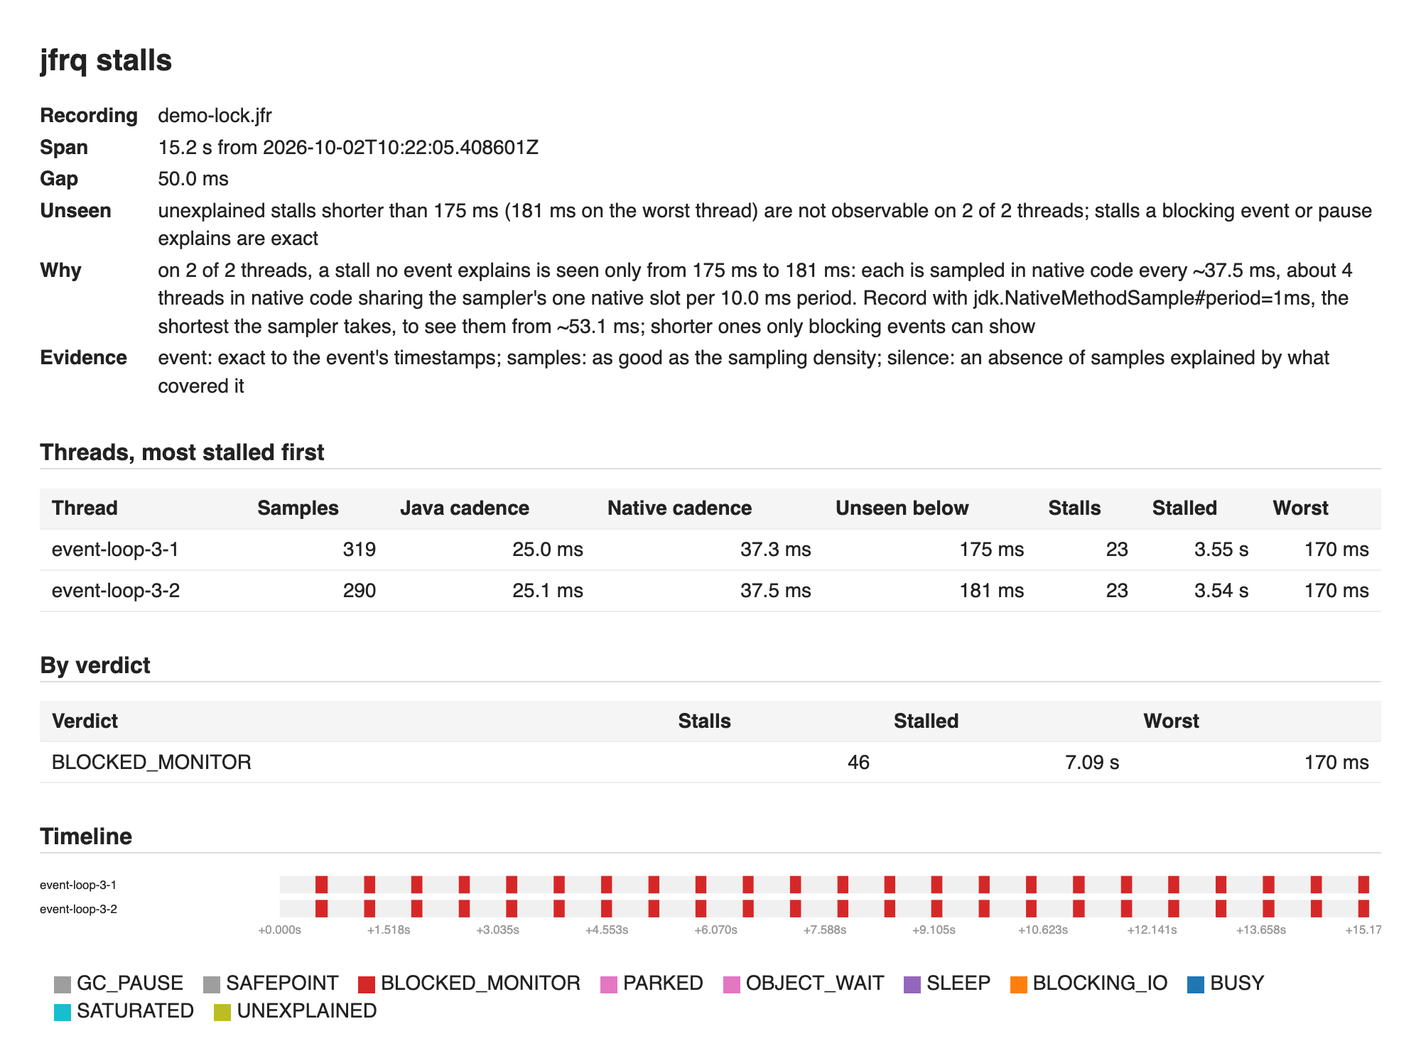
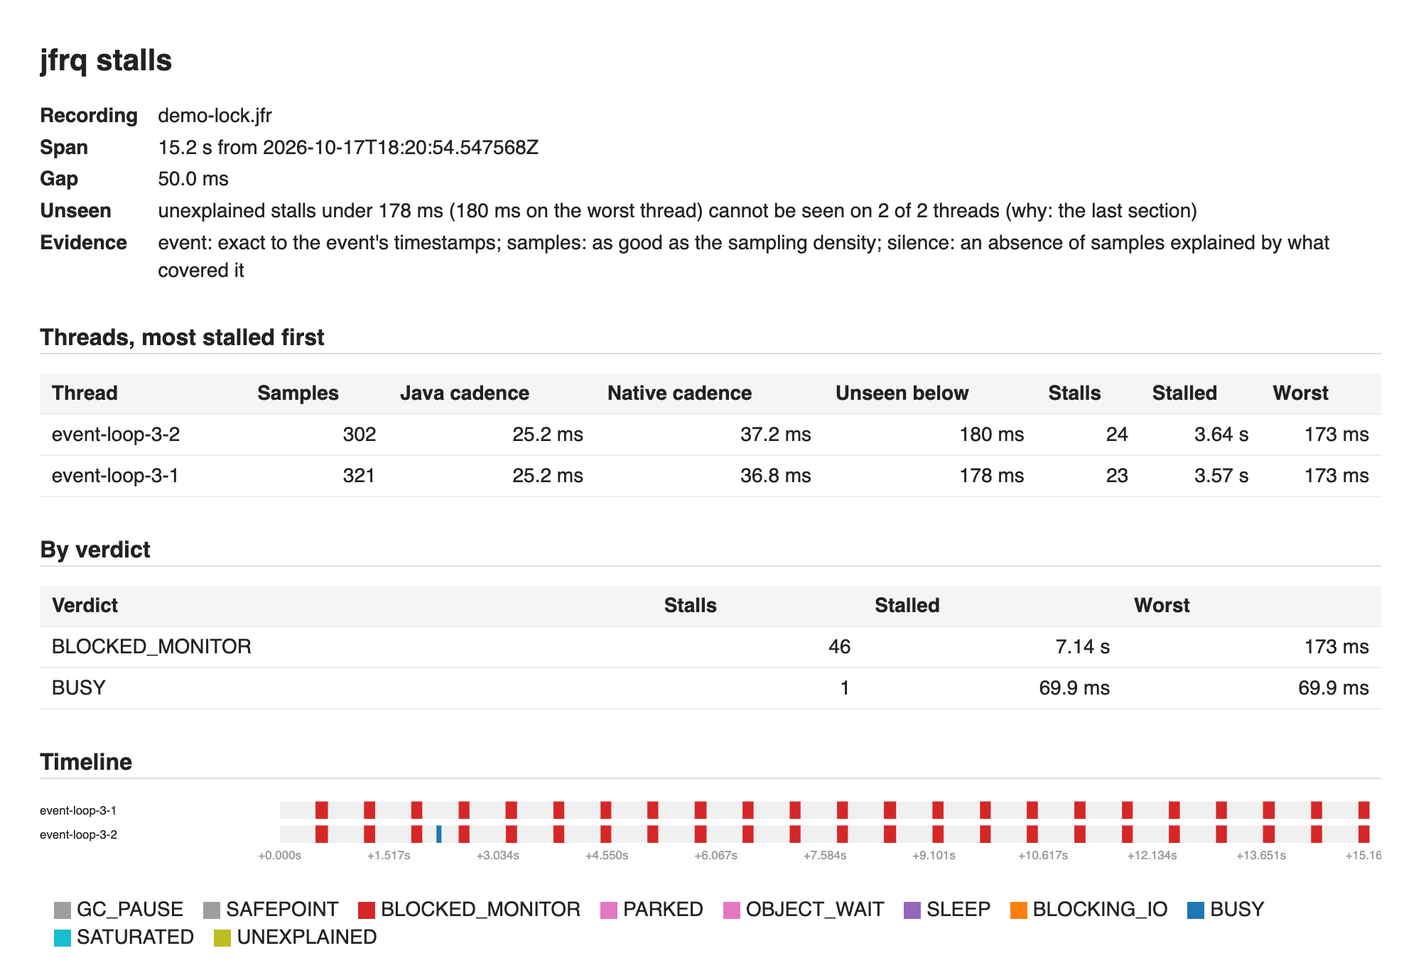
stalls: Unseen bound on one short line, its reasons in a closing UNSEEN section; README example and screenshot regenerated, URLs to jfrq (#11)

diff --git a/core/src/main/java/dev/jfrq/core/stalls/StallReport.java b/core/src/main/java/dev/jfrq/core/stalls/StallReport.java
@@ -32,6 +32,10 @@ public record StallReport(RecordingInfo info, long gapNanos, List<ThreadSummary>
             + "lists every thread seen in any event, the JVM's own included; stalls can judge only a thread the "
             + "sampler or a blocking event saw.";
 
+    /** What both renderers say the {@link #unseen()} sentences are limits on: the stalls nothing explains. */
+    public static final String UNSEEN_SCOPE = "Stalls a blocking event or pause explains are exact; these limits "
+            + "are on the rest.";
+
     /**
      * What limits a thread's view: nothing, one of the sampler's two slots, or the thread itself.
      * A stall a blocking event or a JVM pause explains is seen whatever this says; this is about
@@ -136,11 +140,11 @@ public record StallReport(RecordingInfo info, long gapNanos, List<ThreadSummary>
     }
 
     /**
-     * {@link #unseen()} in one line, before its reasons: how short an unexplained stall these
-     * threads cannot show, and on how many of them. {@code null} when every thread's view is
-     * clear. The {@link #unseen()} sentences explain it and name the setting that would help;
-     * this is the line a reader who stops early still needs, since "0 found" means nothing
-     * below it.
+     * {@link #unseen()} in one short line, before its reasons: how short an unexplained stall
+     * these threads cannot show, and on how many of them. {@code null} when every thread's view
+     * is clear. The {@link #unseen()} sentences explain it and name the setting that would help,
+     * at the end of the report; this is the line a reader who stops early still needs, since
+     * "0 found" means nothing below it.
      */
     public String unseenHeadline() {
         final long span = info.span().duration();
@@ -165,9 +169,8 @@ public record StallReport(RecordingInfo info, long gapNanos, List<ThreadSummary>
             return null;
         }
         final String of = limited + " of " + threads.size() + " threads";
-        final String exact = "; stalls a blocking event or pause explains are exact";
         if (hi == 0) {
-            return "unexplained stalls are not observable at all on " + of + exact;
+            return "no unexplained stall can be seen on " + of;
         }
         // The best thread's bound holds on every one of them; the worst's is how far it reaches,
         // unless the spread is so wide that one number says nothing (84.5 ms against 24m18s over
@@ -177,9 +180,8 @@ public record StallReport(RecordingInfo info, long gapNanos, List<ThreadSummary>
         final String reach = best.equals(worst) ? ""
                 : hi <= WIDE_SPREAD * lo ? " (" + worst + " on the worst thread)"
                 : " (far longer on some)";
-        return "unexplained stalls shorter than " + best + reach
-                + " are not observable on " + of + (never == 0 ? "" : ", and none at all on " + never + " of them")
-                + exact;
+        return "unexplained stalls under " + best + reach
+                + " cannot be seen on " + of + (never == 0 ? "" : ", and none at all on " + never + " of them");
     }
 
     private List<ThreadSummary> withSight(final Sight sight) {

diff --git a/core/src/test/java/dev/jfrq/core/stalls/StallReportTest.java b/core/src/test/java/dev/jfrq/core/stalls/StallReportTest.java
@@ -149,24 +149,20 @@ class StallReportTest {
     void theHeadlineStatesTheBoundInOneLine() {
         // Every limited thread, whatever the reason, in one bound: the best thread's holds on all
         // of them, and the worst's is how far it reaches.
-        assertEquals("unexplained stalls shorter than 510 ms (1.75 s on the worst thread) are not observable on 2 of "
-                + "3 threads; stalls a blocking event or pause explains are exact",
+        assertEquals("unexplained stalls under 510 ms (1.75 s on the worst thread) cannot be seen on 2 of 3 threads",
                 report(20, summary(1, Sight.NATIVE_SAMPLER, 1_750, 571, 571), summary(2, Sight.OWN_ABSENCE, 510, 51, 0),
                         summary(3, Sight.CLEAR, 0, 0, 0)).unseenHeadline());
-        assertEquals("unexplained stalls shorter than 750 ms are not observable on 1 of 1 threads; stalls a blocking "
-                + "event or pause explains are exact", report(20, summary(1, Sight.NATIVE_SAMPLER, 750, 250, 250))
-                .unseenHeadline());
+        assertEquals("unexplained stalls under 750 ms cannot be seen on 1 of 1 threads",
+                report(20, summary(1, Sight.NATIVE_SAMPLER, 750, 250, 250)).unseenHeadline());
         // A bound past the recording is no bound: those threads are counted as not seen at all.
-        assertEquals("unexplained stalls shorter than 750 ms are not observable on 2 of 2 threads, and none at all on "
-                + "1 of them; stalls a blocking event or pause explains are exact",
+        assertEquals("unexplained stalls under 750 ms cannot be seen on 2 of 2 threads, and none at all on 1 of them",
                 report(20, summary(1, Sight.NATIVE_SAMPLER, 750, 250, 250),
                         summary(2, Sight.NATIVE_SAMPLER, 12_000, 4_000, 4_000)).unseenHeadline());
-        assertEquals("unexplained stalls are not observable at all on 1 of 1 threads; stalls a blocking event or pause "
-                + "explains are exact", report(20, summary(1, Sight.OWN_ABSENCE, 0, 0, 0)).unseenHeadline());
+        assertEquals("no unexplained stall can be seen on 1 of 1 threads",
+                report(20, summary(1, Sight.OWN_ABSENCE, 0, 0, 0)).unseenHeadline());
         assertNull(report(20, summary(1, Sight.CLEAR, 0, 0, 0)).unseenHeadline());
         // Ten times apart and more, the worst says nothing a reader can use.
-        assertEquals("unexplained stalls shorter than 85.0 ms (far longer on some) are not "
-                + "observable on 2 of 2 threads; stalls a blocking event or pause explains are exact",
+        assertEquals("unexplained stalls under 85.0 ms (far longer on some) cannot be seen on 2 of 2 threads",
                 report(20, summary(1, Sight.OWN_ABSENCE, 85, 30, 0), summary(2, Sight.OWN_ABSENCE, 9_000, 3_000, 0))
                         .unseenHeadline());
     }

diff --git a/cli/src/main/java/dev/jfrq/cli/Text.java b/cli/src/main/java/dev/jfrq/cli/Text.java
@@ -679,14 +679,13 @@ final class Text {
         sb.append(String.format(Locale.ROOT, "%-10s %d matched\n", "Threads", r.threads().size()));
         // The verdict on the question comes before the stalls, and before the warnings: "0 found"
         // on threads the recording cannot see into is not an answer.
-        // The bound first, on one line; the reasons and the setting that helps below it.
+        // The bound first, on one short line; the reasons and the setting that helps close the
+        // report, so that up to three long sentences do not stand between the reader and the stalls.
         final List<String> unseen = r.unseen();
         final String headline = r.unseenHeadline();
         if (headline != null) {
-            sb.append(String.format(Locale.ROOT, "%-10s %s\n", "Unseen", headline));
-        }
-        for (final String u : unseen) {
-            sb.append(String.format(Locale.ROOT, "%-10s %s\n", "", u));
+            sb.append(String.format(Locale.ROOT, "%-10s %s%s\n", "Unseen", headline,
+                    unseen.isEmpty() ? "" : " (UNSEEN below)"));
         }
         for (final String w : r.warnings()) {
             sb.append("WARNING    ").append(w).append('\n');
@@ -725,6 +724,42 @@ final class Text {
             sb.append(rows(r, shownGaps));
         }
         sb.append(pauses(r, top));
+        if (!unseen.isEmpty()) {
+            sb.append("\nUNSEEN (why, and the setting that helps)\n");
+            sb.append(wrap(StallReport.UNSEEN_SCOPE, "  ", "  "));
+            for (final String u : unseen) {
+                sb.append(wrap(u, "  - ", "    "));
+            }
+        }
+        return sb.toString();
+    }
+
+    /** Columns a sentence of prose is wrapped at. */
+    static final int PROSE_WIDTH = 100;
+
+    /**
+     * {@code text} broken at spaces into lines of at most {@link #PROSE_WIDTH} columns, the
+     * first starting with {@code first} and the rest with {@code rest}; a word longer than a
+     * line stands on its own.
+     */
+    static String wrap(final String text, final String first, final String rest) {
+        final StringBuilder sb = new StringBuilder();
+        String indent = first;
+        int from = 0;
+        while (from < text.length()) {
+            final int room = PROSE_WIDTH - indent.length();
+            int to = text.length();
+            if (to - from > room) {
+                to = text.lastIndexOf(' ', from + room);
+                if (to <= from) {
+                    to = text.indexOf(' ', from + room);
+                    to = to < 0 ? text.length() : to;
+                }
+            }
+            sb.append(indent).append(text, from, to).append('\n');
+            from = to + 1;
+            indent = rest;
+        }
         return sb.toString();
     }
 

diff --git a/cli/src/test/java/dev/jfrq/cli/TextTest.java b/cli/src/test/java/dev/jfrq/cli/TextTest.java
@@ -462,14 +462,33 @@ class TextTest {
                 List.of(), List.of(), List.of("a warning"));
         final String text = Text.stalls(r, 15);
         // Before the warnings, and before the empty list it qualifies.
-        // The bound in one line first, the reasons under it.
-        assertTrue(text.contains("Unseen     unexplained stalls shorter than 750 ms are not observable on 1 of 1 threads; "
-                + "stalls a blocking event or pause explains are exact\n"
-                + "           on 1 of 1 threads, a stall no event explains is seen only from 750 ms"), text);
-        assertTrue(text.indexOf("Unseen") < text.indexOf("WARNING    a warning"), text);
+        // The bound in one short line first; the reasons close the report.
+        assertTrue(text.contains("Unseen     unexplained stalls under 750 ms cannot be seen on 1 of 1 threads "
+                + "(UNSEEN below)\nWARNING    a warning\n"), text);
         assertTrue(text.contains("  none this recording can show: see Unseen above"), text);
+        final String why = section(text, "UNSEEN (");
+        assertTrue(text.indexOf("UNSEEN (") > text.indexOf("STALLS >="), text);
+        assertTrue(why.contains("  " + StallReport.UNSEEN_SCOPE + "\n"), why);
+        assertTrue(why.contains("  - on 1 of 1 threads, a stall no event explains is seen only from 750 ms"), why);
+        why.lines().forEach(line -> assertTrue(line.length() <= Text.PROSE_WIDTH, line));
         // A thread with no stall is counted, not listed: the Unseen line speaks for it.
         assertTrue(section(text, "PER THREAD").contains("1 thread with no stall"), text);
+    }
+
+    @Test
+    void wrapBreaksProseAtSpacesWithinTheWidth() {
+        final String words = "word ".repeat(40).strip();
+        final String wrapped = Text.wrap(words, "  - ", "    ");
+        assertTrue(wrapped.startsWith("  - word word"), wrapped);
+        wrapped.lines().forEach(line -> {
+            assertTrue(line.length() <= Text.PROSE_WIDTH, line);
+            assertFalse(line.endsWith(" "), line);
+        });
+        assertEquals(words, String.join(" ", wrapped.lines().map(String::strip).map(l -> l.replaceFirst("^- ", "")).toList()));
+        // A word longer than a line stands on its own, unbroken.
+        final String longWord = "x".repeat(Text.PROSE_WIDTH + 5);
+        assertEquals("  a\n  " + longWord + "\n  b\n", Text.wrap("a " + longWord + " b", "  ", "  "));
+        assertEquals("  short\n", Text.wrap("short", "  ", "  "));
     }
 
     @Test

diff --git a/core/src/test/java/dev/jfrq/core/report/HtmlTest.java b/core/src/test/java/dev/jfrq/core/report/HtmlTest.java
@@ -68,6 +68,21 @@ class HtmlTest {
     }
 
     @Test
+    void theUnseenBoundLeadsThePageAndItsReasonsCloseIt() {
+        final StallReport r = new StallReport(info(), 50 * MS,
+                List.of(new StallReport.ThreadSummary(LOOP, 460, 0, 250 * MS, 0, 0, 0, 750 * MS,
+                        StallReport.Sight.NATIVE_SAMPLER, 250 * MS)),
+                List.of(), List.of(), List.of("a warning"));
+        final String html = Html.stalls(r, 10);
+        final int bound = html.indexOf("unexplained stalls under 750 ms cannot be seen on 1 of 1 threads (why: the last section)");
+        final int reasons = html.indexOf("<h2>Unseen: why, and the setting that helps</h2>");
+        assertTrue(bound >= 0 && bound < html.indexOf("a warning"), html);
+        assertTrue(reasons > html.indexOf("<h2>Stalls, longest first"), html);
+        assertTrue(html.indexOf(StallReport.UNSEEN_SCOPE) > reasons, html);
+        assertTrue(html.indexOf("on 1 of 1 threads, a stall no event explains is seen only from 750 ms") > reasons, html);
+    }
+
+    @Test
     void theThreadTableTakesTheSameTopAsTheText() {
         final List<StallReport.ThreadSummary> threads = new ArrayList<>();
         for (int i = 1; i <= 4; i++) {

diff --git a/core/src/main/java/dev/jfrq/core/report/Html.java b/core/src/main/java/dev/jfrq/core/report/Html.java
@@ -73,10 +73,7 @@ public final class Html {
         p.kv("Gap", Durations.format(report.gapNanos()));
         final String headline = report.unseenHeadline();
         if (headline != null) {
-            p.kv("Unseen", headline);
-        }
-        for (final String u : report.unseen()) {
-            p.kv("Why", u);
+            p.kv("Unseen", report.unseen().isEmpty() ? headline : headline + " (why: the last section)");
         }
         p.warnings(report.warnings());
         p.kv("Evidence", "event: exact to the event's timestamps; samples: as good as the sampling density; "
@@ -136,6 +133,14 @@ public final class Html {
             stallTable(p, report, listedGaps);
         }
         pauses(p, report);
+        // Last, as in the text report: the headline above is the bound, these are its reasons.
+        if (!report.unseen().isEmpty()) {
+            p.h2("Unseen: why, and the setting that helps");
+            p.para(StallReport.UNSEEN_SCOPE);
+            for (final String u : report.unseen()) {
+                p.kv("Why", u);
+            }
+        }
         return p.finish();
     }
 

diff --git a/docs/TUTORIAL.md b/docs/TUTORIAL.md
@@ -129,8 +129,7 @@ Sampling   ExecutionSample 10.0 ms, NativeMethodSample 10.0 ms
 Thresholds JavaMonitorEnter 1.00 ms, ThreadPark 1.00 ms, ThreadSleep 1.00 ms, SocketRead 1.00 ms, FileRead 1.00 ms
 Gap        50.0 ms
 Threads    2 matched
-Unseen     unexplained stalls shorter than 169 ms (177 ms on the worst thread) are not observable on 2 of 2 threads; stalls a blocking event or pause explains are exact
-           on 2 of 2 threads, a stall no event explains is seen only from 169 ms to 177 ms: each is sampled in native code every ~36.6 ms, about 4 threads in native code sharing the sampler's one native slot per 10.0 ms period. Record with jdk.NativeMethodSample#period=1ms, the shortest the sampler takes, to see them from ~51.5 ms; shorter ones only blocking events can show
+Unseen     unexplained stalls under 169 ms (177 ms on the worst thread) cannot be seen on 2 of 2 threads (UNSEEN below)
 
 BY VERDICT
   Verdict          Stalls  Stalled   Worst
@@ -152,6 +151,13 @@ STALLS >= 50.0 ms: 46 found, showing 2, longest first
         ... 20 more
    2  event-loop-3-2         +0.498s 15:26:28.993Z    178 ms  BLOCKED_MONITOR blocked on monitor dev.jfrq.demo.SessionRegistry@764b6e2f40 held by housekeeper
         same stack as #1
+
+UNSEEN (why, and the setting that helps)
+  Stalls a blocking event or pause explains are exact; these limits are on the rest.
+  - on 2 of 2 threads, a stall no event explains is seen only from 169 ms to 177 ms: each is sampled
+    in native code every ~36.6 ms, about 4 threads in native code sharing the sampler's one native
+    slot per 10.0 ms period. Record with jdk.NativeMethodSample#period=1ms, the shortest the sampler
+    takes, to see them from ~51.5 ms; shorter ones only blocking events can show
 ```
 
 Three things to read off this:
@@ -171,7 +177,8 @@ Three things to read off this:
    the client threads also in native socket reads, each loop is sampled about every 37 ms,
    and routinely unseen for longer, so a stall no event explains would have to last
    169–177 ms to be seen at all; on a busier machine far longer. The line says so before
-   any stall, and what would help: a 1 ms native period would bring it to about 52 ms.
+   any stall; the `UNSEEN` section that closes the report says what would help: a 1 ms
+   native period would bring it to about 52 ms.
    That does not weaken this result: every `BLOCKED_MONITOR` above comes from a
    `jdk.JavaMonitorEnter` event, which is exact whatever the sampling.
 
@@ -502,12 +509,11 @@ a long read dropped by the throttle is not in the file, and the silence it cause
 unexplained. Record with `throttle=off` on those events, as the line in [RECORDING.md](RECORDING.md) does.
 
 The `Unseen` line, right under `Threads`, qualifies the question before any answer to
-it: how short a stall that no event explains can be and still go unseen, and on
-how many of the watched threads. The lines under it say why. When the sampler's pace is
-the limit, it gives the
-`NativeMethodSample` or `ExecutionSample` period that would help and how far it would
-get; when the thread's own absences are (parked, blocked, idle), it says no period helps
-much and blocking events are what will show the stalls. If what it says is longer than
-the stalls you are hunting, record again with what it names, and lower the blocking
-thresholds so the explanation comes from events. `PER THREAD` prints the same number per
-thread as `Unseen below`.
+it: how short a stall that no event explains can be and still go unseen, and on how many
+of the watched threads. The `UNSEEN` section that closes the report says why. When the
+sampler's pace is the limit, it gives the `NativeMethodSample` or `ExecutionSample`
+period that would help and how far it would get; when the thread's own absences are
+(parked, blocked, idle), it says no period helps much and blocking events are what will
+show the stalls. If what it says is longer than the stalls you are hunting, record again
+with what it names, and lower the blocking thresholds so the explanation comes from
+events. `PER THREAD` prints the same number per thread as `Unseen below`.

diff --git a/README.md b/README.md
@@ -2,30 +2,29 @@
 
 **Ask a Java Flight Recorder recording one question. Get a verdict, with its evidence.**
 
-[![build](https://github.com/marregui/jfr/actions/workflows/build.yml/badge.svg)](https://github.com/marregui/jfr/actions/workflows/build.yml)
+[![build](https://github.com/marregui/jfrq/actions/workflows/build.yml/badge.svg)](https://github.com/marregui/jfrq/actions/workflows/build.yml)
 [![license](https://img.shields.io/badge/license-Apache%202.0-blue)](LICENSE)
 [![JDK](https://img.shields.io/badge/JDK-25-orange)](docs/USAGE.md#1-requirements)
 
 ```
 $ jfrq locks demo-lock.jfr --top 3
-Recording  demo-lock.jfr  15.2 s  starting 2026-10-02T10:22:05.408601Z
+Recording  demo-lock.jfr  15.2 s  starting 2026-10-17T18:20:54.547568Z
 Thresholds JavaMonitorEnter 1.00 ms, ThreadPark 1.00 ms
-Blocked    7.14 s across 51 waits
+Blocked    7.21 s across 52 waits
 
 LOCKS BY TOTAL WAIT
   Lock                                      Kind       Total  Waits      Max  Waiters                         Held by
-  dev.jfrq.demo.SessionRegistry@7818113800  monitor   7.09 s     46   170 ms  event-loop-3-2, event-loop-3-1  housekeeper
-  dev.jfrq.demo.Persistence@7818178000      monitor  46.7 ms      4  17.4 ms  housekeeper                     persistence-flusher
-  int[]@7818111500                          monitor  1.05 ms      1  1.05 ms  event-loop-3-1                  event-loop-3-2
+  dev.jfrq.demo.SessionRegistry@797a1fb480  monitor   7.14 s     46   173 ms  event-loop-3-1, event-loop-3-2  housekeeper
+  dev.jfrq.demo.Persistence@797a270000      monitor  72.9 ms      6  20.7 ms  housekeeper                     persistence-flusher
 
 WHERE THEY WAITED (the longest wait for each lock above)
-  dev.jfrq.demo.SessionRegistry@7818113800  170 ms
+  dev.jfrq.demo.SessionRegistry@797a1fb480  173 ms
         at dev.jfrq.demo.SessionRegistry.touch(SessionRegistry.java:29)
         at dev.jfrq.demo.RequestHandler.channelRead0(RequestHandler.java:49)
   ...
 ```
 
-In a 15.2 s recording, the two event loops spent 7.09 s between them blocked on one
+In a 15.2 s recording, the two event loops spent 7.14 s between them blocked on one
 monitor, held by the `housekeeper` thread, which was itself waiting on
 `persistence-flusher`. `--html` writes the same answer as a self-contained page; this is
 `stalls` on the same file:
@@ -64,7 +63,7 @@ JDK Mission Control shows the data; `jfr view` prints aggregate tables. Neither 
 Build (JDK 25):
 
 ```
-git clone https://github.com/marregui/jfr.git && cd jfr
+git clone https://github.com/marregui/jfrq.git && cd jfrq
 ./gradlew installDist
 export PATH="$PWD/cli/build/install/jfrq/bin:$PWD/live/build/install/jfrq-live/bin:$PWD/netty-demo/build/install/netty-demo/bin:$PATH"
 ```

diff --git a/docs/design/stalls.md b/docs/design/stalls.md
@@ -195,9 +195,10 @@ depend on it.
 **The verdict comes first.** On a live node, `stalls` on 24 event loops printed `0 found`,
 above three per-thread warnings, "21 more", and a table of zeros; the answer to "did the
 loops stall" was "this recording cannot see a loop stall shorter than 1.75 s unless an
-event explains it", and the report did not say so first. So an `Unseen` line leads the report,
-before the warnings and the stalls, one per kind of limit, and an empty stall list points
-at it. The kind decides the remedy:
+event explains it", and the report did not say so first. So a one-line `Unseen` bound leads the report,
+before the warnings and the stalls, and an empty stall list points at it. Its reasons, one
+per kind of limit, close the report in an `UNSEEN` section (the last section of the HTML
+page), so that they do not stand between the reader and the stalls. The kind decides the remedy:
 
 - *The sampler's pace.* A thread where one slot can see it for at least half its life,
   whose routine absence is mostly that slot's round trip (at most twice it), is limited by

diff --git a/docs/design/README.md b/docs/design/README.md
@@ -380,7 +380,7 @@ parse within run-to-run variation for both (58 pause events against 277 thousand
   Neither a `stalls` per-thread share nor a `locks` one can exceed 100 %: a thread's
   stalls are disjoint ([stalls.md, section 5](stalls.md#5-merging-and-reporting)).
 - Unexplained silences below `3 × routine absence` are invisible; the `Unseen` line says on
-  how many threads, why, and which sampling period would help ([stalls.md, section 3](stalls.md#3-sampling-cadence-is-measured-not-assumed)). A thread is
+  how many threads, and the closing `UNSEEN` section why and which sampling period would help ([stalls.md, section 3](stalls.md#3-sampling-cadence-is-measured-not-assumed)). A thread is
   sampled at best every 1 ms times the threads sharing its slot; below that, lowering the
   blocking thresholds so the explanation comes from events, or running fewer threads in
   native code during the recording, are the remedies.

diff --git a/docs/JSON.md b/docs/JSON.md
@@ -77,7 +77,7 @@ the text report.
 | `thresholdNanos` | per blocking event type |
 | `threadsMatched` | threads the filter matched that had something to judge |
 | `unseenHeadline` | the `Unseen` line: how short an unexplained stall these threads cannot show, and on how many; `null` when every thread's view is clear |
-| `unseen[]` | the sentences under it: what the recording cannot show on these threads, why, and the setting that would help |
+| `unseen[]` | the sentences the text report closes with, under `UNSEEN`: what the recording cannot show on these threads, why, and the setting that would help |
 | `warnings[]` | the `WARNING` lines |
 | `byVerdict[]` | `verdict`, `stalls`, `stalledNanos`, `worstNanos`, largest total first |
 | `threadsWithStalls`, `threadsWithoutStalls` | the counts behind `threads` |

diff --git a/docs/USAGE.md b/docs/USAGE.md
@@ -176,7 +176,7 @@ blocking event, exact to its timestamps; `[samples]` means a run of sampler obse
 rests on samples alone is only as good as the sampling cadence. `jfrq` measures that
 cadence per thread, and `stalls` opens with an `Unseen` line when it is too coarse:
 first, in one line, how short a stall no event explains can be and still go unseen on the
-threads you asked about; then, under it, whether the sampler's pace or the thread's own
+threads you asked about; then, in an `UNSEEN` section that closes the report, whether the sampler's pace or the thread's own
 absences are why, and the sampling period that would help.
 
 ## 9. `health`
